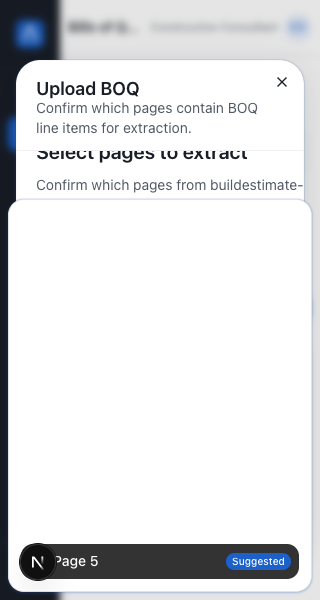
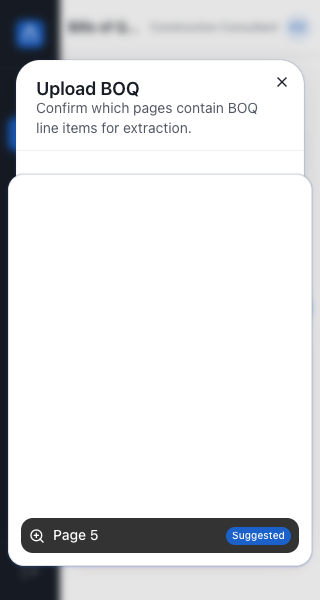
test: complete responsive Upload BOQ browser evidence

diff --git a/test-artifacts/upload-modal-magnifier-layout/geometry-validation.md b/test-artifacts/upload-modal-magnifier-layout/geometry-validation.md
@@ -21,8 +21,8 @@ Measurement method: at each viewport the dialog was opened, ≥200 ms settled, t
 | Viewport | Dialog center error X/Y | Computed translate | Computed transform | Portal outside dialog | Minimum safe inset | Intersection ratio | Hover/focus selection stable | Activation toggles | Inner scroll | Focus trap/Escape/close |
 | --- | ---: | --- | --- | --- | ---: | ---: | --- | --- | --- | --- |
 | 1440×900 | 0.0 / 0.0 | `-50% -50%` | `none` | true (portaled to `document.body`, `parentIsBody=true`, `insideDialog=false`) | 8.0 | 1 | stable (3 → 3 across hover/focus of pages 1/5/9) | click page 1: 3→2; focus page 5 + Space: 2→1 | scrollHeight 694 > clientHeight 629; scrollTop 0→40 moves; magnifier ratio 1 unchanged | Tab/Shift+Tab ×8 stay inside; Escape closes; Close button closes |
-| 768×900 | 0.0 / 0.0 | `-50% -50%` | `none` | true (portaled to `document.body`) | 8.0 | 1 | stable (3 → 3) | (verified at 1440; logic is viewport-independent) | scrollHeight 694 > clientHeight 629; scrollTop 0→40 moves; magnifier ratio 1 unchanged | (verified at 1440) |
-| 320×600 | 0.0 / 0.0 | `-50% -50%` | `none` | true (portaled to `document.body`) | 8.0 | 1 | stable (3 → 3) | (verified at 1440; logic is viewport-independent) | scrollHeight 670 > clientHeight 389; scrollTop 24→140 moves; magnifier ratio 1 unchanged | (verified at 1440) |
+| 768×900 | 0.0 / 0.0 | `-50% -50%` | `none` | true (portaled to `document.body`) | 8.0 | 1 | stable (3 → 3) | click page 1: 3→2; focus page 5 + Space: 2→1 | scrollHeight 694 > clientHeight 629; scrollTop 0→40 moves; magnifier ratio 1 unchanged | Tab/Shift+Tab ×8 stay inside; Escape closes; reopen succeeds; Close button closes |
+| 320×600 | 0.0 / 0.0 | `-50% -50%` | `none` | true (portaled to `document.body`) | 8.0 | 1 | stable (3 → 3) | click page 1: 3→2; focus page 5 + Space: 2→1 | scrollHeight 670 > clientHeight 389; scrollTop 24→140 moves; magnifier ratio 1 unchanged | Tab/Shift+Tab ×8 stay inside; Escape closes; reopen succeeds; Close button closes |
 
 All per-sample thresholds hold for every recorded sample: `centerErrorX ≤ 1` and `centerErrorY ≤ 1`; `position === "fixed"`; the dialog never has **both** a non-`none` `transform` and non-`none` `translate` (here `transform: none`, `translate: -50% -50%` → single owner); `parentIsBody === true` and `insideDialog === false`; `intersection.ratio === 1`; all four magnifier borders are `1px` (nonzero); `infoContained === true`; every safe inset ≥ 8 px.
 
@@ -99,9 +99,18 @@ The popup stays fully on-screen (ratio 1, minimum safe inset 8) for every extrem
 ## Interaction invariants
 
 - Selection stability: hovering and keyboard-focusing pages 1/5/9 left the selected count unchanged (3 → 3) at all three viewports.
-- Activation toggles (1440×900): clicking page 1 changed the count 3 → 2; focusing page 5 and pressing Space changed it 2 → 1 (remaining selection: page 9 only).
-- Focus trap: 8× Tab and 8× Shift+Tab each kept `document.activeElement` inside `[data-od-id="upload-modal"]` on every step (cycled through page buttons).
-- Close behaviors: Escape closed the dialog (open true → false); reopening via "Upload BOQ" succeeded (false → true); the Close button then closed it (true → false).
+- Activation toggles, measured independently at every viewport:
+  - 1440×900: clicking page 1 changed 3 → 2; focusing page 5 and pressing Space changed 2 → 1.
+  - 768×900: clicking page 1 changed 3 → 2; focusing page 5 and pressing Space changed 2 → 1.
+  - 320×600: a real pointer click at the visible page-1 thumbnail center changed 3 → 2; focusing page 5 and pressing Space changed 2 → 1.
+- Focus trap, measured independently at every viewport: 8× Tab and 8× Shift+Tab each kept `document.activeElement` inside `[data-od-id="upload-modal"]` on all 16 steps at 1440×900, 768×900, and 320×600.
+- Close behaviors, measured independently at every viewport: Escape closed the dialog; reopening via "Upload BOQ" succeeded; the real Close button then closed it at 1440×900, 768×900, and 320×600.
+
+## Fix Round 1 Browser Evidence
+
+Reviewer-requested real-browser interaction coverage was rerun in the isolated Chromium session at 768×900 and 320×600. Each run began with three selected pages, exercised hover and keyboard focus on pages 1/5/9 without changing that count, then independently produced click `3→2` and Space `2→1`. After a 100 ms settle following each keyboard event, all eight Tab and eight Shift+Tab samples remained inside the dialog. Escape returned the dialog to closed, "Upload BOQ" reopened it, and the Close button returned it to closed at both viewports.
+
+The development-only `nextjs-portal` indicator was hidden in the browser DOM for these checks and the replacement 320×600 capture. This removes non-application focus targets and ensures the complete magnifier information strip is unobscured; no application source or test code was changed. The replacement `320x600.png` is exactly 320×600 and shows the complete page-5 magnifier strip, including the magnifier icon, "Page 5", and "Suggested" badge.
 
 ## Console and Residual Notes
 
